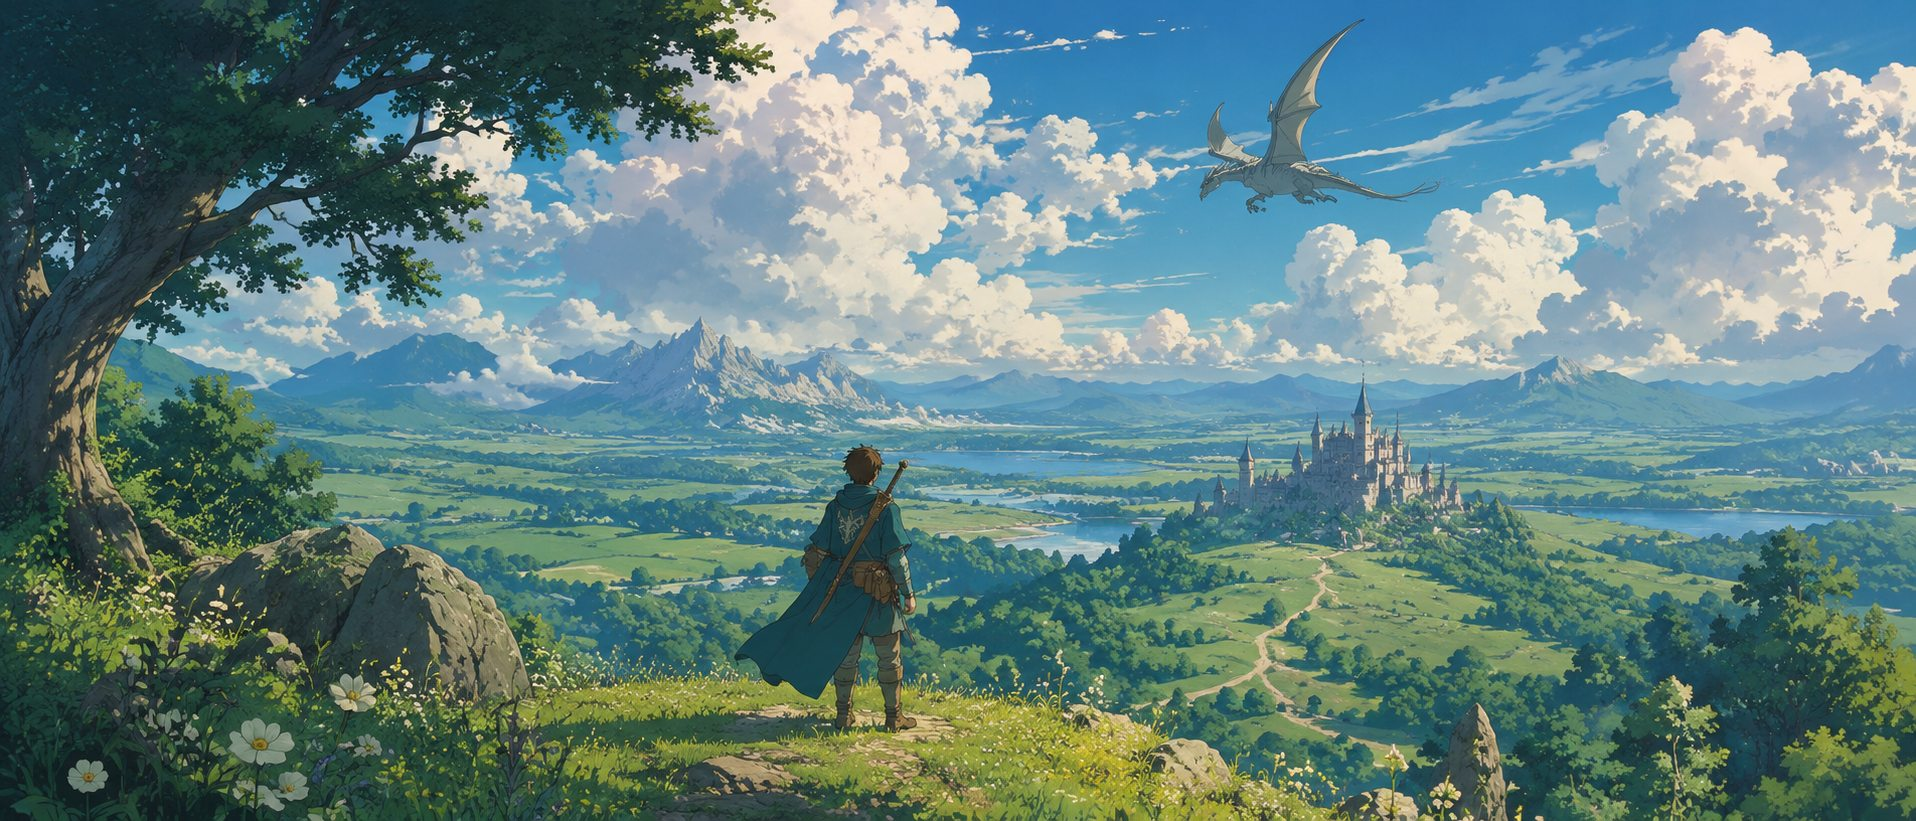
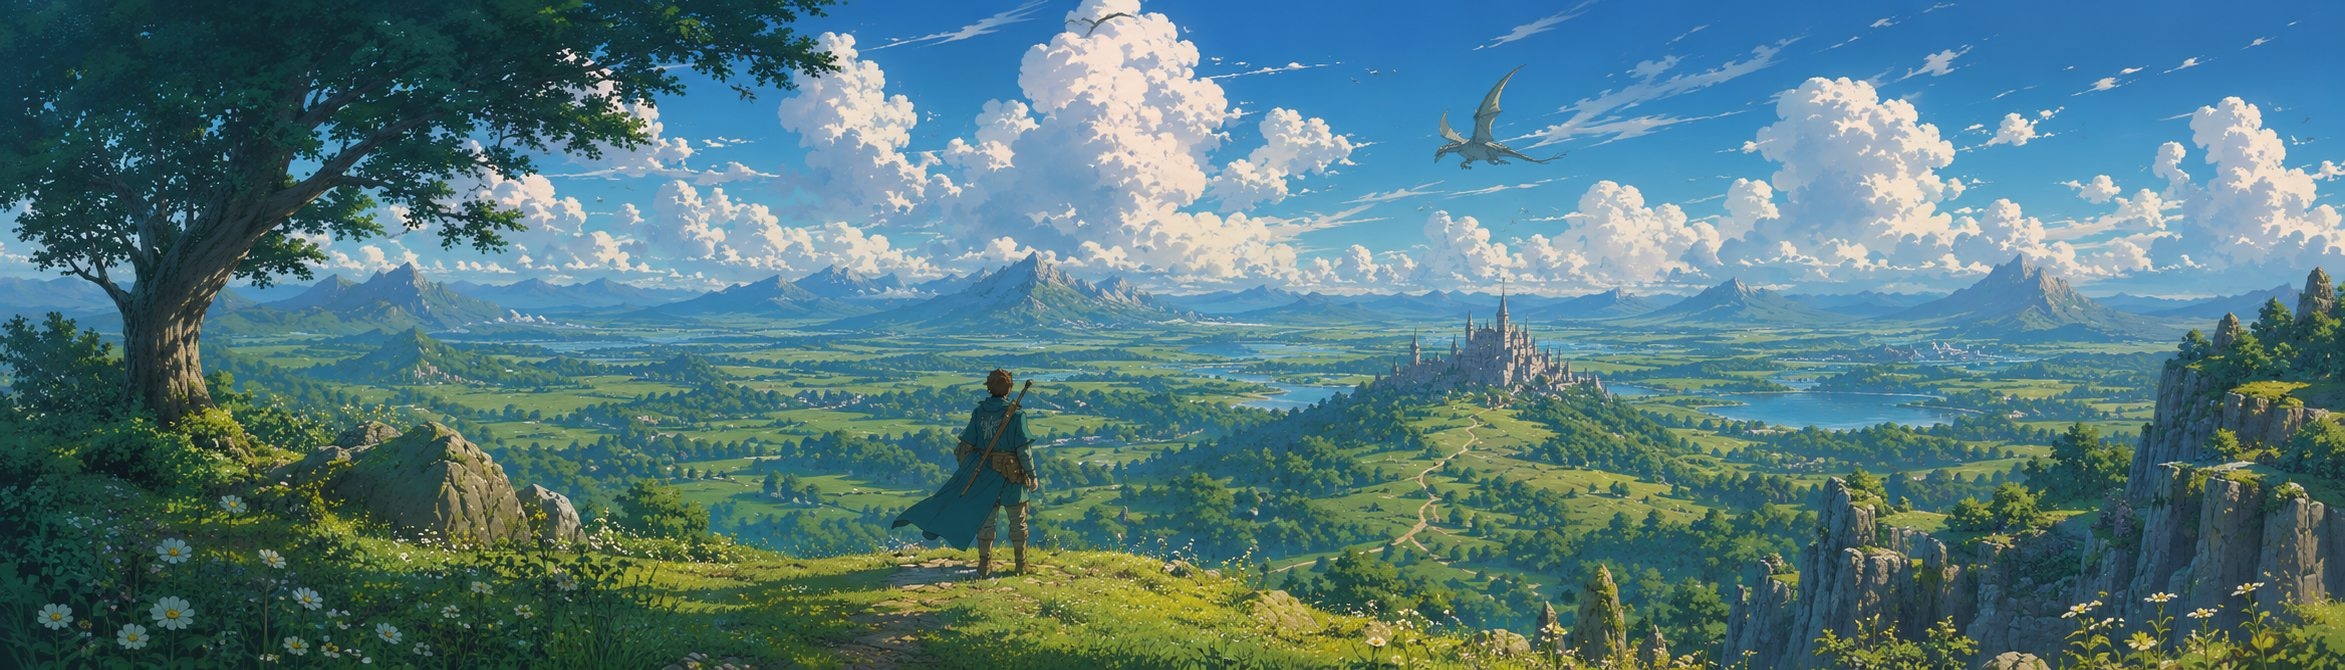
style: adopt panoramic home hero

diff --git a/src/styles/global.css b/src/styles/global.css
@@ -35,7 +35,7 @@ button, input { font: inherit; }
 .nav-shell nav a:hover { background: var(--color-accent); color: var(--color-accent-foreground); }
 .home-layout { width: 100%; padding-top: 2.5rem; }
 .hero { padding-bottom: 3rem; }
-.hero-art { display: block; width: 100%; aspect-ratio: 16 / 8; margin-bottom: 1.4rem; border: 1px solid var(--color-border); border-radius: 14px; background: var(--color-card); object-fit: cover; }
+.hero-art { display: block; width: 100%; aspect-ratio: 7 / 2; margin-bottom: 1.4rem; border: 1px solid var(--color-border); border-radius: 14px; background: var(--color-card); object-fit: cover; }
 .daily-quote { min-height: 2.1rem; margin: 0; color: var(--color-foreground); font-size: clamp(1.15rem, 2.3vw, 1.65rem); font-weight: 600; letter-spacing: -.03em; }
 .typing-caret { display: inline-block; height: 1.15em; margin-left: .15rem; border-left: 2px solid var(--color-primary); vertical-align: -.15em; animation: blink 1s steps(1) infinite; }
 @keyframes blink { 50% { opacity: 0; } }
